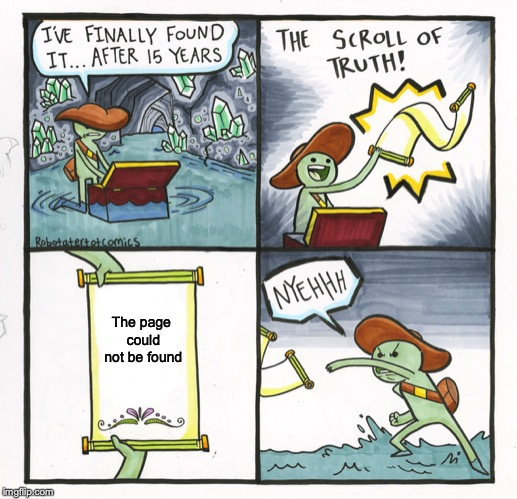
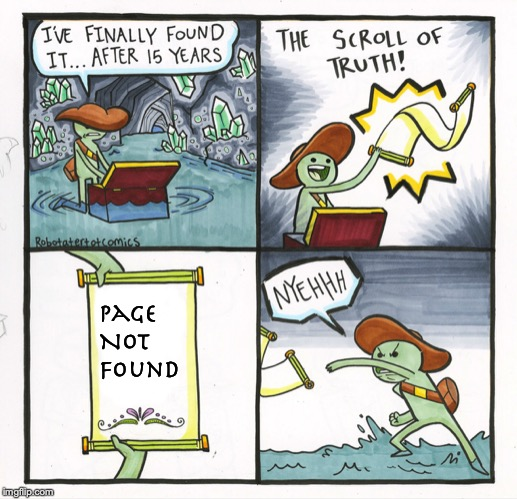
Minor error fixed

Changed region(s): [[0.1857, 0.6012, 0.3714, 0.7515]]

diff --git a/src/main/resources/templates/uploadPost3.html b/src/main/resources/templates/uploadPost3.html
@@ -26,29 +26,7 @@
             $('#charCount').text(len + addition);
         };
 
-        // $("uploadPostInfo").submit(function () {
-        //     console.log("111");
-        //     document.getElementById('uploading').style.display = '';
-        //     document.getElementById('infoTable').style.display = 'None';
-        //     document.getElementById('footer').style.display = 'None';
-        //     if ($(this).valid()) {
-        //         $(this).submit(function () {
-        //             return false;
-        //         });
-        //         return true;
-        //     }
-        //     else {
-        //         return false;
-        //     }
-        // });
-
         function submitForm() {
-            // document.getElementById('uploading').style.display = '';
-            // document.getElementById('infoTable').style.display = 'None';
-            // document.getElementById('footer').style.display = 'None';
-            //
-            // document.getElementById('uploadPostInfo').submit();
-            console.log("111");
             document.getElementById('uploading').style.display = '';
             document.getElementById('infoTable').style.display = 'None';
             document.getElementById('footer').style.display = 'None';

diff --git a/src/main/resources/templates/paypal_medium.html b/src/main/resources/templates/paypal_medium.html
@@ -2,28 +2,8 @@
 <html>
 <head>
     <meta charset="UTF-8"/>
-    <title>Insert title here</title>
+    <meta http-equiv='refresh' content='0; URL=/upgradeAccount'>
+    <title>Redirecting...</title>
 </head>
-<body>
-<form id="myForm" action="/upgradeAccount">
-    <script type="text/javascript">
-        window.onload = function () {
-            var auto = setTimeout(function () {
-                autoRefresh();
-            }, 1);
-
-            function submitform() {
-                document.forms["myForm"].submit();
-            }
-
-            function autoRefresh() {
-                clearTimeout(auto);
-                auto = setTimeout(function () {
-                    submitform();
-                    autoRefresh();
-                }, 2);
-            }
-        }
-    </script>
-</body>
+<body></body>
 </html>

diff --git a/src/main/resources/templates/paypal_medium2.html b/src/main/resources/templates/paypal_medium2.html
@@ -2,28 +2,8 @@
 <html>
 <head>
     <meta charset="UTF-8"/>
-    <title>Insert title here</title>
+    <meta http-equiv='refresh' content='0; URL=/setting'>
+    <title>Redirecting...</title>
 </head>
-<body>
-<form id="myForm" action="/setting">
-    <script type="text/javascript">
-        window.onload = function () {
-            var auto = setTimeout(function () {
-                autoRefresh();
-            }, 1);
-
-            function submitform() {
-                document.forms["myForm"].submit();
-            }
-
-            function autoRefresh() {
-                clearTimeout(auto);
-                auto = setTimeout(function () {
-                    submitform();
-                    autoRefresh();
-                }, 2);
-            }
-        }
-    </script>
-</body>
+<body></body>
 </html>

diff --git a/src/main/resources/templates/uploadPost4.html b/src/main/resources/templates/uploadPost4.html
@@ -104,28 +104,6 @@
         </td>
     </tr>
 </table>
-<form id="myForm" action="/mainPage">
-</form>
-
-<script type="text/javascript">
-    // window.onload = function () {
-    //     var auto = setTimeout(function () {
-    //         autoRefresh();
-    //     }, 1);
-    //
-    //     function submitform() {
-    //         document.forms["myForm"].submit();
-    //     }
-    //
-    //     function autoRefresh() {
-    //         clearTimeout(auto);
-    //         auto = setTimeout(function () {
-    //             submitform();
-    //             autoRefresh();
-    //         }, 1);
-    //     }
-    // }
-</script>
 <div style="padding: 5em;"></div>
 </body>
 </html>

diff --git a/src/main/resources/templates/profile_follower.html b/src/main/resources/templates/profile_follower.html
@@ -2,7 +2,7 @@
 <html>
 <html xmlns:th="http://www.thymeleaf.org">
 <head>
-    <title>Following</title>
+    <title>Follower</title>
     <!-- Metadata -->
     <meta charset="UTF-8">
     <meta name="viewport" content="width=device-width, initial-scale=1.0, maximum-scale=1.0, user-scalable=no">
@@ -25,8 +25,6 @@
                 success : function(data) {
                     if(data == "Remove Success!"  ){
                         alert(data)
-                        // ( $('#'+id).text("  Follow"))
-                        // ( $('#'+id).prepend("<i class='fas fa-plus'></i>"))
                          location.reload();
                     }
                     else  {

diff --git a/src/main/resources/templates/error.html b/src/main/resources/templates/error.html
@@ -2,7 +2,7 @@
 <html>
 <html xmlns:th="http://www.thymeleaf.org">
 <head>
-    <title>Post - Celeste</title>
+    <title>Page Not Found - Celeste</title>
     <!-- Metadata -->
     <meta charset="UTF-8">
     <meta name="viewport" content="width=device-width, initial-scale=1.0, maximum-scale=1.0, user-scalable=no">

diff --git a/src/main/resources/templates/editSeries.html b/src/main/resources/templates/editSeries.html
@@ -2,7 +2,7 @@
 <html>
 <html xmlns:th="http://www.thymeleaf.org">
 <head>
-    <title>Post - Celeste</title>
+    <title>Edit Series - Celeste</title>
     <!-- Metadata -->
     <meta charset="UTF-8">
     <meta name="viewport" content="width=device-width, initial-scale=1.0, maximum-scale=1.0, user-scalable=no">

diff --git a/src/main/resources/templates/index.html b/src/main/resources/templates/index.html
@@ -2,7 +2,7 @@
 <html lang="en">
 <html xmlns:th="http://www.thymeleaf.org">
 <head>
-    <title>Sign In</title>
+    <title>Sign In - Celeste</title>
     <!-- Metadata -->
     <meta charset="UTF-8">
     <meta name="viewport" content="width=device-width, initial-scale=1.0, maximum-scale=1.0, user-scalable=no">

diff --git a/src/main/resources/templates/profile_analysis.html b/src/main/resources/templates/profile_analysis.html
@@ -2,7 +2,7 @@
 <html>
 <html xmlns:th="http://www.thymeleaf.org">
 <head>
-    <title>Home - Celeste</title>
+    <title>Analysis - Celeste</title>
     <!-- Metadata -->
     <meta charset="UTF-8">
     <meta name="viewport" content="width=device-width, initial-scale=1.0, maximum-scale=1.0, user-scalable=no">

diff --git a/src/main/resources/templates/resetPassword.html b/src/main/resources/templates/resetPassword.html
@@ -2,7 +2,7 @@
 <html lang="en">
 <html xmlns:th="http://www.thymeleaf.org">
 <head>
-    <title>Sign Up</title>
+    <title>Reset Password</title>
     <!-- Metadata -->
     <meta charset="UTF-8">
     <meta name="viewport" content="width=device-width, initial-scale=1.0, maximum-scale=1.0, user-scalable=no">

diff --git a/src/main/resources/templates/singleSeries_Error.html b/src/main/resources/templates/singleSeries_Error.html
@@ -2,7 +2,7 @@
 <html>
 <html xmlns:th="http://www.thymeleaf.org">
 <head>
-    <title>Post - Celeste</title>
+    <title>Error - Celeste</title>
     <!-- Metadata -->
     <meta charset="UTF-8">
     <meta name="viewport" content="width=device-width, initial-scale=1.0, maximum-scale=1.0, user-scalable=no">

diff --git a/src/main/resources/templates/setting.html b/src/main/resources/templates/setting.html
@@ -2,7 +2,7 @@
 <html>
 <html xmlns:th="http://www.thymeleaf.org">
 <head>
-    <title>Setting</title>
+    <title>Setting - Celeste</title>
     <!-- Metadata -->
     <meta charset="UTF-8">
     <meta name="viewport" content="width=device-width, initial-scale=1.0, maximum-scale=1.0, user-scalable=no">
